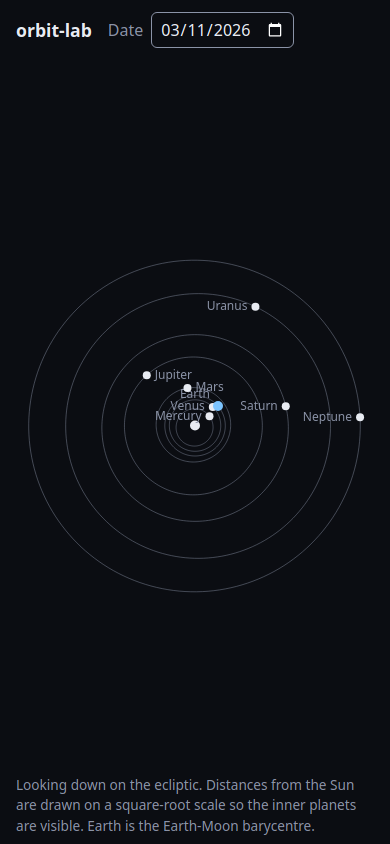
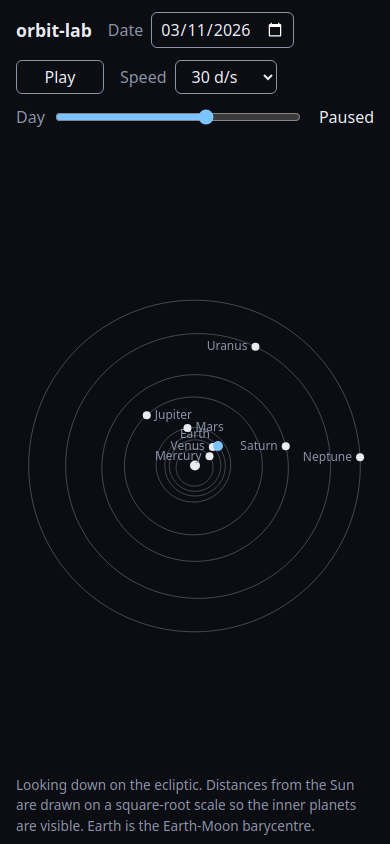
feat: time slider and play controls (#14)
* feat: time slider and play controls with a pure clock in core

* feat: sync the slider on load

---------

diff --git a/src/web/main.ts b/src/web/main.ts
@@ -1,3 +1,7 @@
+import {
+  CLOCK_SPAN_DAYS, type ClockState, dayIndexOf, describeSpeed, pause, play, seek, setSpeed, SPEEDS_DAYS_PER_SECOND,
+  stepClock, timeMsOfDayIndex, wholeDay,
+} from '../core/clock';
 import {drawSolarSystem, type Palette} from '../render/draw-solar-system';
 import {formatDateInput, MAX_YEAR, MIN_YEAR, parseDateInput} from './date-input';
 
@@ -6,8 +10,25 @@ const input = document.getElementById('date') as HTMLInputElement;
 const message = document.getElementById('message') as HTMLElement;
 const ctx = canvas.getContext('2d')!;
 
-let current = new Date();
-current = new Date(Date.UTC(current.getUTCFullYear(), current.getUTCMonth(), current.getUTCDate()));
+const playButton = document.getElementById('play') as HTMLButtonElement;
+const speedSelect = document.getElementById('speed') as HTMLSelectElement;
+const slider = document.getElementById('day') as HTMLInputElement;
+const stateLabel = document.getElementById('state') as HTMLElement;
+
+const now = new Date();
+let clock: ClockState = seek(
+  {timeMs: 0, playing: false, daysPerSecond: SPEEDS_DAYS_PER_SECOND[2], stopped: null},
+  Date.UTC(now.getUTCFullYear(), now.getUTCMonth(), now.getUTCDate()),
+);
+let current = wholeDay(clock.timeMs);
+slider.max = String(CLOCK_SPAN_DAYS);
+for (const speed of SPEEDS_DAYS_PER_SECOND) {
+  const option = document.createElement('option');
+  option.value = String(speed);
+  option.textContent = describeSpeed(speed);
+  option.selected = speed === clock.daysPerSecond;
+  speedSelect.append(option);
+}
 input.min = `${MIN_YEAR}-01-01`;
 input.max = `${MAX_YEAR}-12-31`;
 input.value = formatDateInput(current);
@@ -27,6 +48,46 @@ function redraw(): void {
   drawSolarSystem(ctx, {width: rect.width, height: rect.height}, current, palette());
 }
 
+function sync(): void {
+  const day = wholeDay(clock.timeMs);
+  const changed = day.getTime() !== current.getTime();
+  current = day;
+  if (document.activeElement !== input) input.value = formatDateInput(current);
+  slider.value = String(dayIndexOf(clock.timeMs));
+  slider.setAttribute('aria-valuetext', formatDateInput(current));
+  playButton.textContent = clock.playing ? 'Pause' : 'Play';
+  playButton.setAttribute('aria-label', clock.playing ? 'Pause' : 'Play');
+  playButton.setAttribute('aria-pressed', String(clock.playing));
+  stateLabel.textContent = clock.playing
+    ? `Playing at ${describeSpeed(clock.daysPerSecond)}`
+    : clock.stopped === 'end' ? 'Stopped: reached the end of the range (2100)'
+    : clock.stopped === 'start' ? 'Stopped: reached the start of the range (1900)'
+    : 'Paused';
+  if (changed) redraw();
+}
+
+let last: number | null = null;
+function frame(timestamp: number): void {
+  if (!clock.playing) { last = null; return; }
+  if (last !== null) clock = stepClock(clock, timestamp - last);
+  last = timestamp;
+  sync();
+  if (clock.playing) requestAnimationFrame(frame);
+}
+
+playButton.addEventListener('click', () => {
+  clock = clock.playing ? pause(clock) : play(clock);
+  message.textContent = '';
+  sync();
+  if (clock.playing) { last = null; requestAnimationFrame(frame); }
+});
+speedSelect.addEventListener('change', () => { clock = setSpeed(clock, Number(speedSelect.value)); sync(); });
+slider.addEventListener('input', () => {
+  clock = seek(clock, timeMsOfDayIndex(Number(slider.value)));
+  message.textContent = '';
+  sync();
+});
+
 input.addEventListener('input', () => {
   const parsed = parseDateInput(input.value);
   if (!parsed.ok) {
@@ -34,10 +95,11 @@ input.addEventListener('input', () => {
     return;
   }
   message.textContent = '';
-  current = parsed.date;
-  redraw();
+  clock = seek(clock, parsed.date.getTime());
+  sync();
 });
 
 new ResizeObserver(redraw).observe(canvas);
 window.matchMedia('(prefers-color-scheme: light)').addEventListener('change', redraw);
+sync();
 redraw();

diff --git a/src/core/clock.test.ts b/src/core/clock.test.ts
@@ -1,0 +1,72 @@
+import {expect, test} from 'bun:test';
+import {
+  CLOCK_END_MS, CLOCK_SPAN_DAYS, CLOCK_START_MS, MS_PER_DAY, SPEEDS_DAYS_PER_SECOND,
+  type ClockState, dayIndexOf, describeSpeed, pause, play, seek, setSpeed, stepClock, timeMsOfDayIndex, wholeDay,
+} from './clock';
+
+const base: ClockState = {timeMs: Date.UTC(2000, 0, 1), playing: true, daysPerSecond: 1, stopped: null};
+
+test('each speed advances by exactly speed x elapsed, however the elapsed time is split', () => {
+  for (const speed of SPEEDS_DAYS_PER_SECOND) {
+    const start = {...base, daysPerSecond: speed / 100};
+    let s = start;
+    for (let i = 0; i < 1000; i++) s = stepClock(s, 16);
+    const oneShot = stepClock(start, 16_000);
+    expect(Math.abs(s.timeMs - oneShot.timeMs)).toBeLessThan(1e-3);
+    expect(oneShot.timeMs - start.timeMs).toBeCloseTo((16 * speed * MS_PER_DAY) / 100, 3);
+  }
+});
+
+test('one real second at 1 d/s is one day; 365.25 d/s is a Julian year (a leap year ends 6h short)', () => {
+  expect(stepClock(base, 1000).timeMs - base.timeMs).toBe(MS_PER_DAY);
+  expect(wholeDay(stepClock({...base, daysPerSecond: 365.25}, 1000).timeMs).toISOString()).toBe('2000-12-31T00:00:00.000Z');
+});
+
+test('paused clocks and non-positive elapsed times do not move', () => {
+  expect(stepClock(pause(base), 1000)).toEqual(pause(base));
+  expect(stepClock(base, 0)).toBe(base);
+  expect(stepClock(base, -50)).toBe(base);
+  expect(stepClock(base, NaN)).toBe(base);
+});
+
+test('reaching the end clamps and stops with a reason', () => {
+  const s = stepClock({...base, timeMs: CLOCK_END_MS - MS_PER_DAY, daysPerSecond: 3652.5}, 1000);
+  expect(s).toMatchObject({timeMs: CLOCK_END_MS, playing: false, stopped: 'end'});
+});
+
+test('playing backwards stops at the start', () => {
+  const s = stepClock({...base, timeMs: CLOCK_START_MS + MS_PER_DAY, daysPerSecond: -100}, 1000);
+  expect(s).toMatchObject({timeMs: CLOCK_START_MS, playing: false, stopped: 'start'});
+});
+
+test('play from the end restarts at the beginning and clears the reason', () => {
+  const ended = stepClock({...base, timeMs: CLOCK_END_MS - 1, daysPerSecond: 10}, 1000);
+  const again = play(ended);
+  expect(again).toMatchObject({timeMs: CLOCK_START_MS, playing: true, stopped: null});
+});
+
+test('seek clamps into the range and clears the stop reason', () => {
+  const stopped: ClockState = {...base, playing: false, stopped: 'end'};
+  expect(seek(stopped, Date.UTC(3000, 0, 1))).toMatchObject({timeMs: CLOCK_END_MS, stopped: null});
+  expect(seek(stopped, Date.UTC(1800, 0, 1)).timeMs).toBe(CLOCK_START_MS);
+  expect(seek(stopped, NaN).timeMs).toBe(CLOCK_START_MS);
+});
+
+test('setSpeed keeps position and play state', () => {
+  expect(setSpeed(base, 30)).toEqual({...base, daysPerSecond: 30});
+});
+
+test('day indexes round-trip across the range and the slider span matches the range', () => {
+  expect(CLOCK_SPAN_DAYS).toBe(dayIndexOf(CLOCK_END_MS));
+  for (const day of [0, 1, 366, 36524, CLOCK_SPAN_DAYS]) expect(dayIndexOf(timeMsOfDayIndex(day))).toBe(day);
+  expect(timeMsOfDayIndex(-5)).toBe(CLOCK_START_MS);
+  expect(timeMsOfDayIndex(CLOCK_SPAN_DAYS + 10)).toBe(CLOCK_END_MS);
+});
+
+test('wholeDay drops the time of day', () => {
+  expect(wholeDay(Date.UTC(2020, 5, 15, 13)).toISOString()).toBe('2020-06-15T00:00:00.000Z');
+});
+
+test('speed labels', () => {
+  expect(SPEEDS_DAYS_PER_SECOND.map(describeSpeed)).toEqual(['1 d/s', '10 d/s', '30 d/s', '100 d/s', '1 yr/s', '10 yr/s']);
+});

diff --git a/src/core/clock.ts b/src/core/clock.ts
@@ -1,0 +1,74 @@
+export const MS_PER_DAY = 86_400_000;
+export const CLOCK_START_MS = Date.UTC(1900, 0, 1);
+export const CLOCK_END_MS = Date.UTC(2100, 11, 31);
+export const CLOCK_SPAN_DAYS = (CLOCK_END_MS - CLOCK_START_MS) / MS_PER_DAY;
+
+/** Playback speeds in simulated days per real second. */
+export const SPEEDS_DAYS_PER_SECOND = [1, 10, 30, 100, 365.25, 3652.5] as const;
+
+export type StopReason = 'start' | 'end';
+
+export interface ClockState {
+  /** Simulated time, milliseconds since the Unix epoch (UTC). Kept unrounded so repeated steps do not drift. */
+  timeMs: number;
+  playing: boolean;
+  daysPerSecond: number;
+  /** Why playback last stopped on its own; null while playing or after a manual pause. */
+  stopped: StopReason | null;
+}
+
+export function clampTimeMs(timeMs: number): number {
+  if (Number.isNaN(timeMs)) return CLOCK_START_MS;
+  return Math.min(CLOCK_END_MS, Math.max(CLOCK_START_MS, timeMs));
+}
+
+/**
+ * Advances the clock by real elapsed milliseconds. Negative speeds play backwards.
+ * Hitting either end of the range clamps the time and stops playback.
+ */
+export function stepClock(state: ClockState, elapsedMs: number): ClockState {
+  if (!state.playing || !(elapsedMs > 0)) return state;
+  const next = state.timeMs + (elapsedMs * state.daysPerSecond * MS_PER_DAY) / 1000;
+  if (next >= CLOCK_END_MS) return {...state, timeMs: CLOCK_END_MS, playing: false, stopped: 'end'};
+  if (next <= CLOCK_START_MS) return {...state, timeMs: CLOCK_START_MS, playing: false, stopped: 'start'};
+  return {...state, timeMs: next};
+}
+
+/** Starts playback; from the end of the range it restarts at the beginning so play is never a no-op. */
+export function play(state: ClockState): ClockState {
+  const atEnd = state.daysPerSecond >= 0 ? state.timeMs >= CLOCK_END_MS : state.timeMs <= CLOCK_START_MS;
+  const timeMs = atEnd ? (state.daysPerSecond >= 0 ? CLOCK_START_MS : CLOCK_END_MS) : state.timeMs;
+  return {...state, timeMs, playing: true, stopped: null};
+}
+
+export function pause(state: ClockState): ClockState {
+  return {...state, playing: false, stopped: null};
+}
+
+/** A manual jump (slider or date field) clamps into range and clears a stop reason. */
+export function seek(state: ClockState, timeMs: number): ClockState {
+  return {...state, timeMs: clampTimeMs(timeMs), stopped: null};
+}
+
+export function setSpeed(state: ClockState, daysPerSecond: number): ClockState {
+  return {...state, daysPerSecond};
+}
+
+export function dayIndexOf(timeMs: number): number {
+  return Math.floor((clampTimeMs(timeMs) - CLOCK_START_MS) / MS_PER_DAY);
+}
+
+export function timeMsOfDayIndex(day: number): number {
+  return clampTimeMs(CLOCK_START_MS + Math.round(day) * MS_PER_DAY);
+}
+
+/** Calendar day (UTC midnight) shown for a simulated time. */
+export function wholeDay(timeMs: number): Date {
+  return new Date(CLOCK_START_MS + dayIndexOf(timeMs) * MS_PER_DAY);
+}
+
+export function describeSpeed(daysPerSecond: number): string {
+  const d = Math.abs(daysPerSecond);
+  if (d >= 365) return `${+(d / 365.25).toFixed(1)} yr/s`;
+  return `${d} d/s`;
+}

diff --git a/public/index.html b/public/index.html
@@ -13,6 +13,12 @@
   label{display:flex;align-items:center;gap:.5rem;color:var(--muted)}
   input{font:inherit;color:var(--fg);background:transparent;border:1px solid var(--muted);border-radius:6px;padding:.25rem .5rem;color-scheme:inherit}
   input:focus-visible{outline:2px solid var(--accent);outline-offset:2px}
+  button,select{font:inherit;color:var(--fg);background:transparent;border:1px solid var(--muted);border-radius:6px;padding:.25rem .75rem;cursor:pointer;color-scheme:inherit}
+  button:focus-visible,select:focus-visible,input:focus-visible{outline:2px solid var(--accent);outline-offset:2px}
+  #controls{display:flex;flex-wrap:wrap;align-items:center;gap:.5rem 1rem;padding:0 1rem .5rem}
+  .grow{flex:1 1 16rem}
+  #day{flex:1;min-width:8rem;accent-color:var(--accent)}
+  #play{min-width:5.5rem}
   #message{min-height:1.5em;margin:0;padding:0 1rem;color:var(--accent)}
   main{flex:1;min-height:0;display:flex}
   canvas{flex:1;width:100%;min-height:320px;display:block}
@@ -24,6 +30,12 @@
   <h1>orbit-lab</h1>
   <label>Date <input id="date" type="date" autocomplete="off"></label>
 </header>
+<div id="controls" role="group" aria-label="Time controls">
+  <button id="play" type="button" aria-label="Play">Play</button>
+  <label>Speed <select id="speed"></select></label>
+  <label class="grow">Day <input id="day" type="range" min="0" step="1" aria-label="Date slider, 1900 to 2100"></label>
+  <span id="state" role="status" aria-live="polite"></span>
+</div>
 <p id="message" role="status" aria-live="polite"></p>
 <main><canvas id="view" role="img" aria-label="The eight planets on their orbits around the Sun, seen from above the ecliptic"></canvas></main>
 <footer>Looking down on the ecliptic. Distances from the Sun are drawn on a square-root scale so the inner planets are visible. Earth is the Earth-Moon barycentre.</footer>
